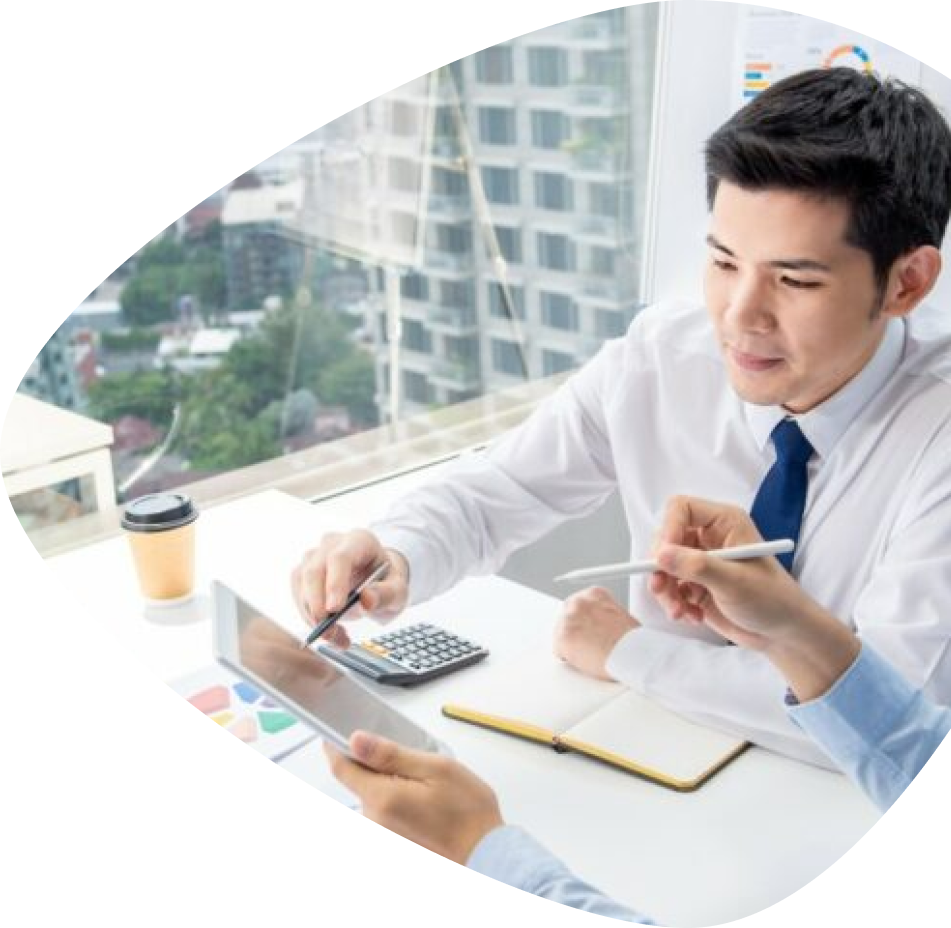
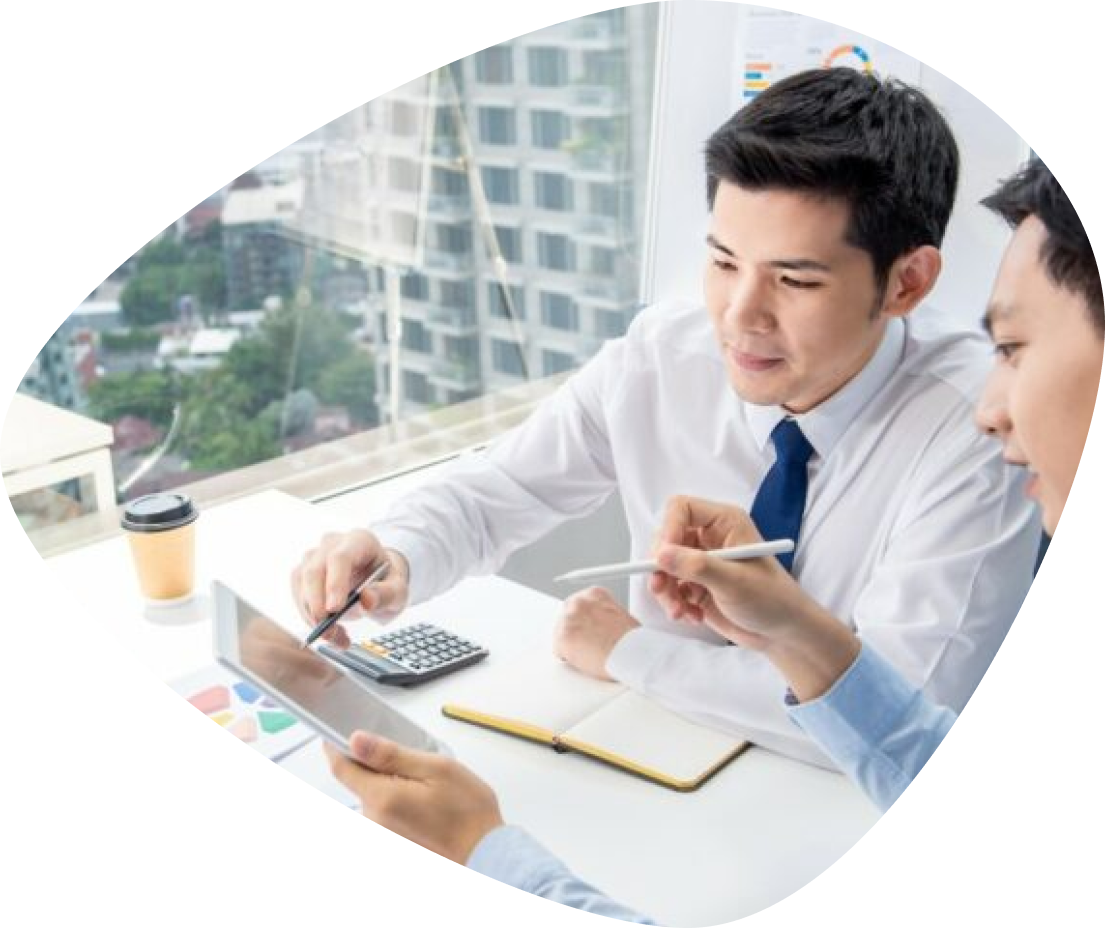
amal: add section1

diff --git a/index.html b/index.html
@@ -28,10 +28,14 @@
     </div>
 
     <div class="section-1">
-        <h2 class="motto">Validate your business ideas here!</h2>
-        <p class="about">YukBisnis is a fresh platform where you can share and validate your business ideas, or simply help others by giving feedback! You can also vote your favourite ideas, so we all know that all ideas matters!</p>
-        <a class="btn-readmore"><button>Read More</button></a>
-        <img class="img-1" src="img/section1.png" alt="">
+        <div class="about-col">
+            <h2 class="motto">Validate your business ideas here!</h2>
+            <p class="about">YukBisnis is a fresh platform where you can share and validate your business ideas, or simply help others by giving feedback! You can also vote your favourite ideas, so we all know that all ideas matters!</p>
+            <button class="btn-readmore">READ MORE . . .</button>
+        </div>
+        <div class="image-col">
+            <img class="img-1" src="img/section1.png" alt="">
+        </div>
     </div>
 </body>
 

diff --git a/style.css b/style.css
@@ -63,6 +63,7 @@ button {
 }
 
 .section-1 {
+    display: flex;
     margin: 40px;
     font-family: 'Cormorant Garamond', 'Gill Sans', 'Gill Sans MT', Calibri, 'Trebuchet MS', sans-serif;
 }
@@ -71,7 +72,29 @@ button {
     font-size: 50px;
 }
 
+.image-col {
+    flex-basis: 80%;
+    margin-left: 20px;
+}
+
 .img-1 {
-    position: absolute;
+    max-width: 100%;
+    position: relative;
     right: 0px;
+}
+
+.about-col {
+    /* flex-basis: 80%; */
+}
+
+.motto {
+    margin-bottom: 10px;
+}
+
+.btn-readmore {
+    background: rgba(224, 223, 213, 0.6);
+    border-radius: 60px;
+    border: 0;
+    padding: 20px 50px 20px 50px;
+    margin-top: 20px;
 }
